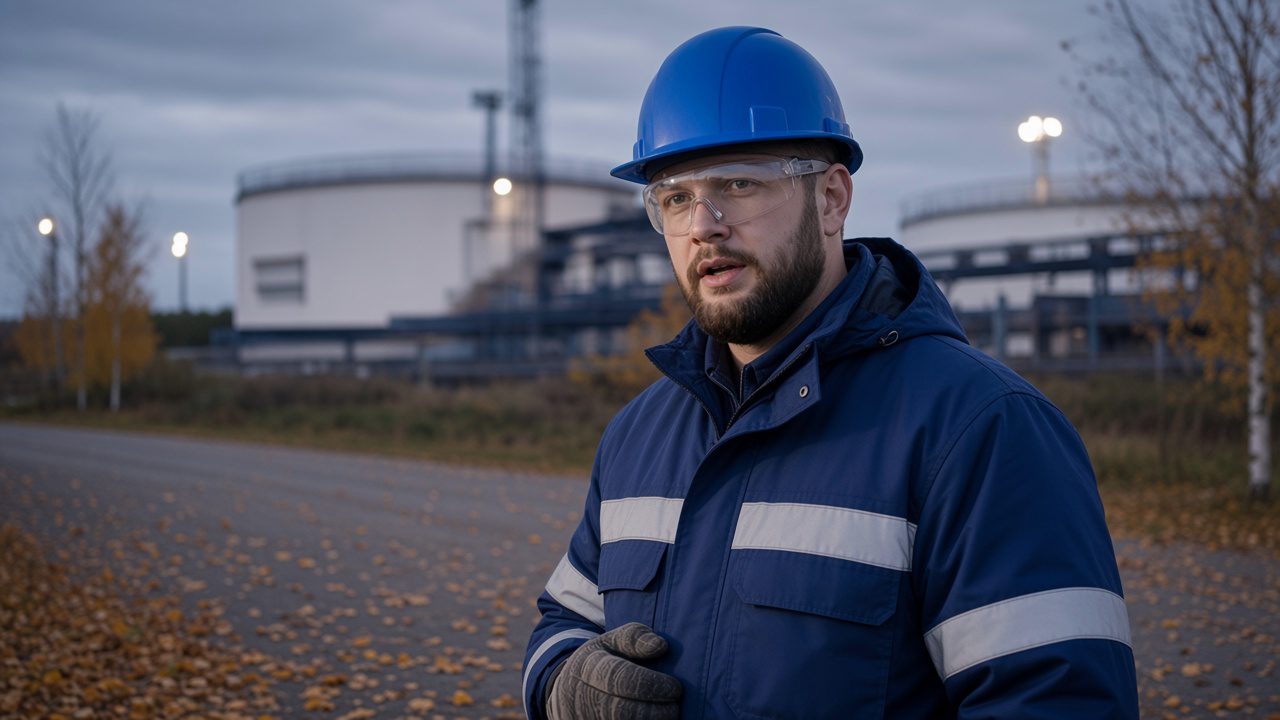
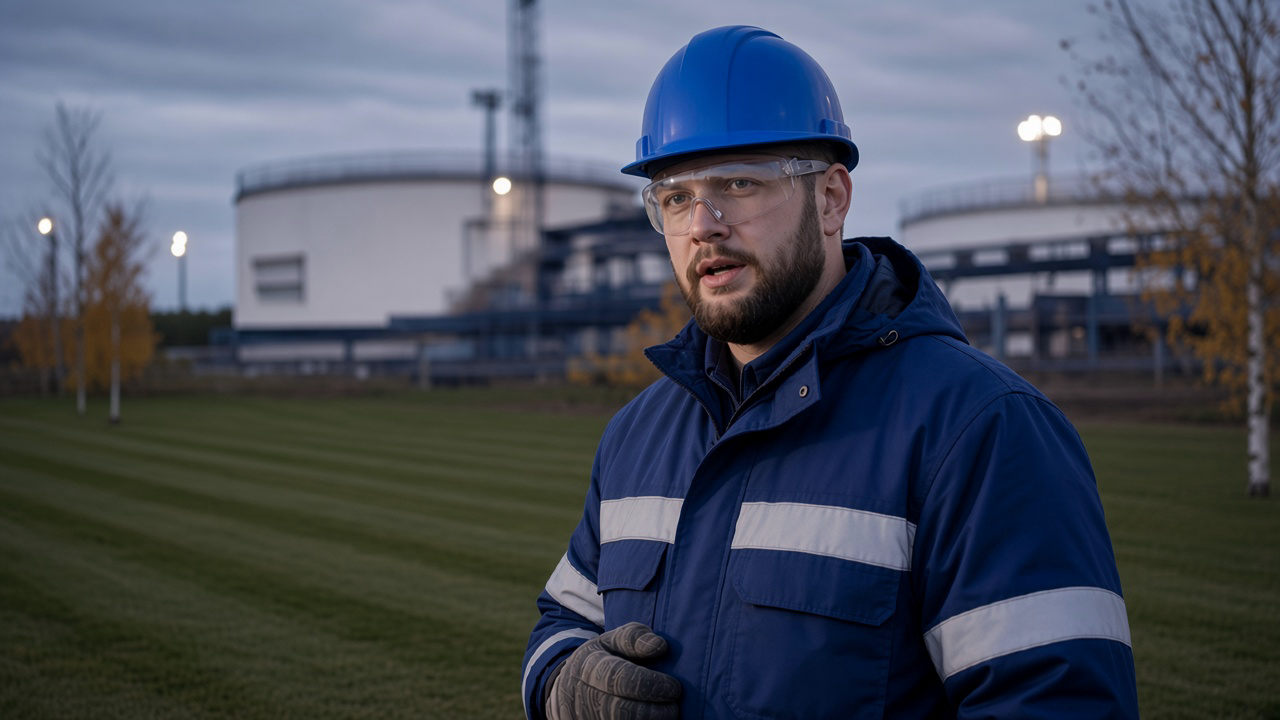
Убрать листву с земли на кадре Кожевникова.
Поздняя осень на деревьях остаётся, территория чистая: покошенная трава и без опавших листьев.

diff --git a/trening/zadanie-1/personazh.md b/trening/zadanie-1/personazh.md
@@ -20,7 +20,7 @@
 
 Средний план: голова, плечи, торс. Один человек, чуть правее центра, слева воздух. Сумерки, холодный серо-синий свет. Фон размыт: резервуары и огни площадки. Второго человека нет.
 
-Сезон — поздняя осень: на земле и у обочины жёлтые и бурые опавшие листья, на краю площадки голые и полуголые деревья, низкое осеннее небо. Куртка чуть плотнее, по октябрю, фасон тот же.
+Сезон — поздняя осень: низкое осеннее небо, холодный свет, на краю площадки деревья с жёлтой листвой или голыми ветками. Территория чистая: листвы на земле нет, трава коротко и ровно покошена, асфальт и края подметены. Куртка чуть плотнее, по октябрю, фасон тот же.
 
 ## Чего не должно быть в кадре
 
